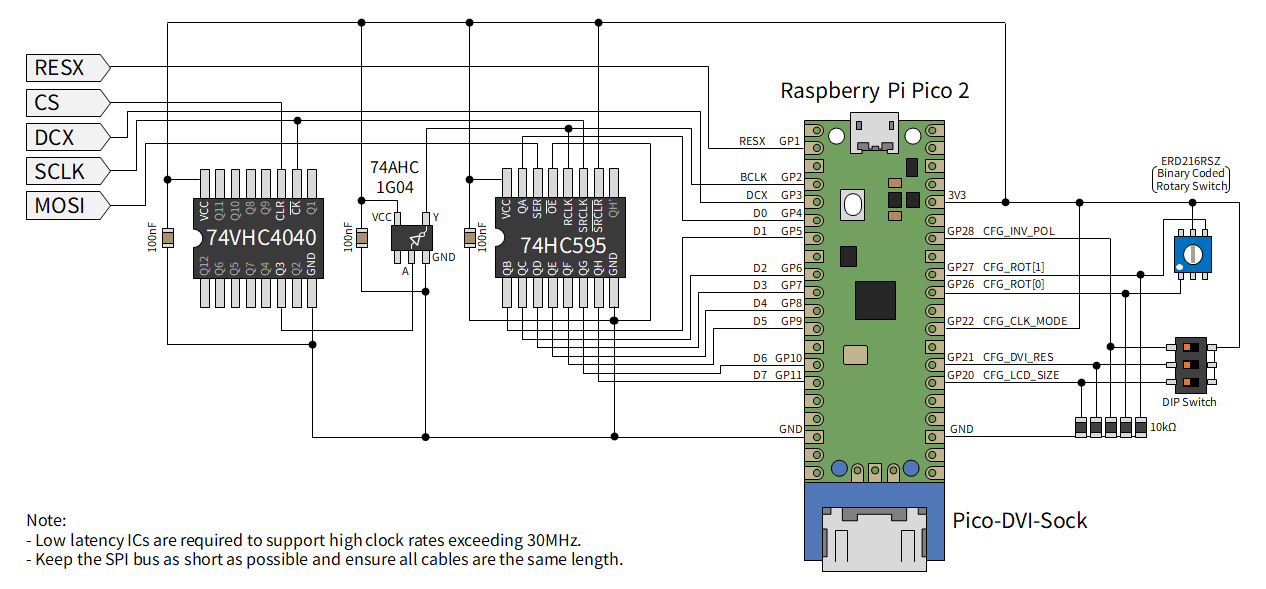
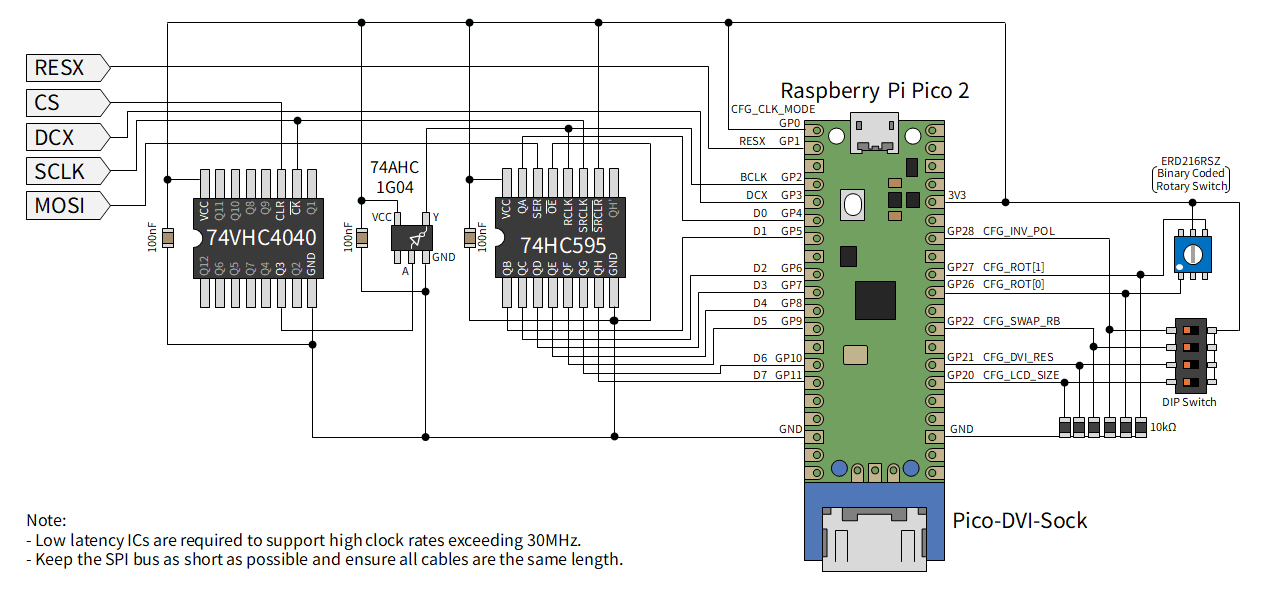
add LcdTapConfig.swapRB and PIN_CFG_SWAP_RB (GPIO 22)
- Add bool swapRB to LcdTapConfig; in updateWriteCache() the MADCTL BGR
  bit is XOR'd with swapRB so the R/B swap can be overridden at boot time
  independently of the LCD command stream.
- Move PIN_CFG_CLK_MODE from GPIO 22 to GPIO 0 in pico2_st7789.
- Add PIN_CFG_SWAP_RB = GPIO 22 to both pico2_st7789 and pico2_3line_spi;
  LOW (default) = no swap, HIGH = swap R and B channels.
- Update README files and schematics accordingly.

diff --git a/lib/src/lcdtap.cpp b/lib/src/lcdtap.cpp
@@ -24,6 +24,7 @@ void getDefaultConfig(ControllerType type, LcdTapConfig* cfg) {
       cfg->dviHeight = 480;
       cfg->scaleMode = ScaleMode::FIT;
       cfg->invertInvPolarity = false;
+      cfg->swapRB = false;
       break;
     case ControllerType::SSD1306:
       cfg->controller = ControllerType::SSD1306;
@@ -34,6 +35,7 @@ void getDefaultConfig(ControllerType type, LcdTapConfig* cfg) {
       cfg->dviHeight = 480;
       cfg->scaleMode = ScaleMode::FIT;
       cfg->invertInvPolarity = false;
+      cfg->swapRB = false;
       break;
   }
 }
@@ -119,8 +121,8 @@ void ControllerBase::processRamwrData(const uint8_t* data, uint32_t numBytes,
   switch (pixelFormat) {
     case PixelFormat::RGB444:
       // byte0: R1[3:0] G1[3:0]  byte1: B1[3:0] R2[3:0]  byte2: G2[3:0] B2[3:0]
-      // 4bit→5bit: x<<1 (MSB-align; LSB zeroed)  4bit→6bit: x<<2 (MSB-align; lower 2 bits zeroed)
-      // Drain leftover bytes (0–2 bytes)
+      // 4bit→5bit: x<<1 (MSB-align; LSB zeroed)  4bit→6bit: x<<2 (MSB-align;
+      // lower 2 bits zeroed) Drain leftover bytes (0–2 bytes)
       while (ramwrBufLen > 0 && i < length) {
         ramwrBuf[ramwrBufLen++] = data[i];
         i += stride;
@@ -227,7 +229,8 @@ void ControllerBase::processRamwrData(const uint8_t* data, uint32_t numBytes,
   }
 }
 
-// Process a data byte stream: RAMWR data is handled in bulk, others byte by byte
+// Process a data byte stream: RAMWR data is handled in bulk, others byte by
+// byte
 void ControllerBase::feedData(const uint8_t* data, uint32_t numBytes,
                               uint32_t stride) {
   if (stride == 0) stride = 1;  // safety guard
@@ -368,7 +371,8 @@ void LcdTap::fillScanline(uint16_t dviLine, uint16_t* dst) const {
       break;
     }
     case 1: {
-      // rot=1: 90° CW  — (lcdRowOut, lcdColOut) → ((physH-1-lcdColOut), lcdRowOut)
+      // rot=1: 90° CW  — (lcdRowOut, lcdColOut) → ((physH-1-lcdColOut),
+      // lcdRowOut)
       for (uint16_t x = 0; x < ctrl->displayW; ++x) {
         uint16_t lcdColOut = static_cast<uint16_t>(hAccum >> 16);
         *d++ = fb[(uint32_t)(physH - 1u - lcdColOut) * physW + lcdRowOut] ^ inv;
@@ -377,7 +381,8 @@ void LcdTap::fillScanline(uint16_t dviLine, uint16_t* dst) const {
       break;
     }
     case 2: {
-      // rot=2: 180° — (lcdRowOut, lcdColOut) → ((physH-1-lcdRowOut), (physW-1-lcdColOut))
+      // rot=2: 180° — (lcdRowOut, lcdColOut) → ((physH-1-lcdRowOut),
+      // (physW-1-lcdColOut))
       const uint16_t* srcRow = fb + (uint32_t)(physH - 1u - lcdRowOut) * physW;
       for (uint16_t x = 0; x < ctrl->displayW; ++x) {
         uint16_t lcdColOut = static_cast<uint16_t>(hAccum >> 16);
@@ -387,7 +392,8 @@ void LcdTap::fillScanline(uint16_t dviLine, uint16_t* dst) const {
       break;
     }
     case 3: {
-      // rot=3: 270° CW — (lcdRowOut, lcdColOut) → (lcdColOut, (physW-1-lcdRowOut))
+      // rot=3: 270° CW — (lcdRowOut, lcdColOut) → (lcdColOut,
+      // (physW-1-lcdRowOut))
       for (uint16_t x = 0; x < ctrl->displayW; ++x) {
         uint16_t lcdColOut = static_cast<uint16_t>(hAccum >> 16);
         *d++ = fb[(uint32_t)lcdColOut * physW + (physW - 1u - lcdRowOut)] ^ inv;

diff --git a/lib/include/lcdtap/lcdtap.hpp b/lib/include/lcdtap/lcdtap.hpp
@@ -43,9 +43,9 @@ enum class PixelFormat : uint8_t {
 // Scaling mode (when LCD resolution differs from DVI active area)
 //=============================================================================
 enum class ScaleMode : uint8_t {
-  STRETCH,       // Stretch to fill the full DVI area (ignores aspect ratio)
-  FIT,           // Letterbox/pillarbox to preserve aspect ratio
-  PIXEL_PERFECT, // Scale by integer factor; black padding around the image
+  STRETCH,        // Stretch to fill the full DVI area (ignores aspect ratio)
+  FIT,            // Letterbox/pillarbox to preserve aspect ratio
+  PIXEL_PERFECT,  // Scale by integer factor; black padding around the image
 };
 
 //=============================================================================
@@ -66,6 +66,7 @@ struct LcdTapConfig {
   ScaleMode scaleMode;
 
   bool invertInvPolarity;  // true: INVON→non-inverted / INVOFF→inverted
+  bool swapRB;             // true: invert cachedBGR (swap R and B channels)
 };
 
 //=============================================================================
@@ -74,7 +75,8 @@ struct LcdTapConfig {
 struct HostInterface {
   // --- Memory management (required) ---
   // Used for framebuffer allocation/deallocation.
-  // Pass a custom allocator if you need to allocate in external memory (e.g. PSRAM).
+  // Pass a custom allocator if you need to allocate in external memory (e.g.
+  // PSRAM).
   void* (*alloc)(size_t size);
   void (*free)(void* ptr);
 
@@ -145,9 +147,9 @@ class LcdTap {
 
   // Force-set the sleep/display-on state.
   // on=true: sets sleeping=false and displayOn=true, making fillScanline()
-  // return non-black pixels. on=false: sets sleeping=true and returns a black screen.
-  // Use this when you want to display a test pattern before the SPI master sends
-  // SLPOUT/DISPON.
+  // return non-black pixels. on=false: sets sleeping=true and returns a black
+  // screen. Use this when you want to display a test pattern before the SPI
+  // master sends SLPOUT/DISPON.
   void setDisplayOn(bool on);
 
  private:

diff --git a/example/pico2_st7789/src/main.cpp b/example/pico2_st7789/src/main.cpp
@@ -235,8 +235,9 @@ int main() {
   //    Do this first, before the system clock changes, while the default
   //    125 MHz clock is running and the GPIO input synchronisers are stable.
   // -------------------------------------------------------------------------
-  for (uint pin : {PIN_CFG_LCD_SIZE, PIN_CFG_DVI_RES, PIN_CFG_CLK_MODE,
-                   PIN_CFG_ROT0, PIN_CFG_ROT1, PIN_CFG_INV_POL}) {
+  for (uint pin :
+       {PIN_CFG_LCD_SIZE, PIN_CFG_DVI_RES, PIN_CFG_CLK_MODE, PIN_CFG_ROT0,
+        PIN_CFG_ROT1, PIN_CFG_INV_POL, PIN_CFG_SWAP_RB}) {
     gpio_init(pin);
     gpio_set_dir(pin, GPIO_IN);
     gpio_pull_down(pin);
@@ -247,6 +248,7 @@ int main() {
   const bool dvi720p = gpio_get(PIN_CFG_DVI_RES);
   const bool fastMode = gpio_get(PIN_CFG_CLK_MODE);
   const bool invPolarity = gpio_get(PIN_CFG_INV_POL);
+  const bool swapRB = gpio_get(PIN_CFG_SWAP_RB);
   const int rot =
       static_cast<int>((gpio_get(PIN_CFG_ROT1) << 1u) | gpio_get(PIN_CFG_ROT0));
 
@@ -310,6 +312,7 @@ int main() {
   cfg.lcdHeight = lcdH;
   cfg.scaleMode = lcdtap::ScaleMode::FIT;
   cfg.invertInvPolarity = invPolarity;
+  cfg.swapRB = swapRB;
 
   // Use effective (colour-buffer) dimensions, not physical DVI dimensions.
   cfg.dviWidth = static_cast<uint16_t>(dviW);

diff --git a/example/pico2_3line_spi/src/main.cpp b/example/pico2_3line_spi/src/main.cpp
@@ -201,7 +201,7 @@ int main() {
   //    125 MHz clock is running and the GPIO input synchronisers are stable.
   // -------------------------------------------------------------------------
   for (uint pin : {PIN_CFG_LCD_SIZE, PIN_CFG_DVI_RES, PIN_CFG_ROT0,
-                   PIN_CFG_ROT1, PIN_CFG_INV_POL}) {
+                   PIN_CFG_ROT1, PIN_CFG_INV_POL, PIN_CFG_SWAP_RB}) {
     gpio_init(pin);
     gpio_set_dir(pin, GPIO_IN);
     gpio_pull_down(pin);
@@ -211,6 +211,7 @@ int main() {
   const bool lcd320 = gpio_get(PIN_CFG_LCD_SIZE);
   const bool dvi720p = gpio_get(PIN_CFG_DVI_RES);
   const bool invPolarity = gpio_get(PIN_CFG_INV_POL);
+  const bool swapRB = gpio_get(PIN_CFG_SWAP_RB);
   const int rot =
       static_cast<int>((gpio_get(PIN_CFG_ROT1) << 1u) | gpio_get(PIN_CFG_ROT0));
 
@@ -274,6 +275,7 @@ int main() {
   cfg.lcdHeight = lcdH;
   cfg.scaleMode = lcdtap::ScaleMode::FIT;
   cfg.invertInvPolarity = invPolarity;
+  cfg.swapRB = swapRB;
 
   // Use effective (colour-buffer) dimensions, not physical DVI dimensions.
   cfg.dviWidth = static_cast<uint16_t>(dviW);

diff --git a/example/pico2_st7789/include/config.h b/example/pico2_st7789/include/config.h
@@ -70,7 +70,7 @@ static constexpr uint PIN_CFG_DVI_RES = 21u;
 
 // LOW=Normal Mode (spi_slave.pio, no external ICs) / HIGH=Fast Mode
 // (par_slave.pio)
-static constexpr uint PIN_CFG_CLK_MODE = 22u;
+static constexpr uint PIN_CFG_CLK_MODE = 0u;
 
 // output rotation bits: GPIO26=rot bit0, GPIO27=rot bit1 (pull-down=0, default
 // rot=0)
@@ -88,6 +88,9 @@ static constexpr uint PIN_LED = 25u;
 // (INVON→non-inverted)
 // =============================================================================
 static constexpr uint PIN_CFG_INV_POL = 28u;
+
+// LOW=no swap (default) / HIGH=swap R and B channels
+static constexpr uint PIN_CFG_SWAP_RB = 22u;
 
 // =============================================================================
 // PIO / DMA resource assignment

diff --git a/example/pico2_3line_spi/include/config.h b/example/pico2_3line_spi/include/config.h
@@ -59,6 +59,9 @@ static constexpr uint PIN_LED = 25u;
 // =============================================================================
 static constexpr uint PIN_CFG_INV_POL = 28u;
 
+// LOW=no swap (default) / HIGH=swap R and B channels
+static constexpr uint PIN_CFG_SWAP_RB = 22u;
+
 // =============================================================================
 // PIO / DMA resource assignment
 // pio0 is reserved for PicoDVI (libdvi uses DVI_DEFAULT_PIO_INST = pio0).

diff --git a/lib/src/st7789_controller.cpp b/lib/src/st7789_controller.cpp
@@ -14,7 +14,7 @@ void St7789Controller::updateWriteCache() {
   bool mv = (madctl >> 5) & 1;
   bool mx = (madctl >> 6) & 1;
   bool my = (madctl >> 7) & 1;
-  cachedBGR = (madctl >> 3) & 1;
+  cachedBGR = ((madctl >> 3) & 1) ^ config.swapRB;
   int32_t W = static_cast<int32_t>(config.lcdWidth);
   int32_t H = static_cast<int32_t>(config.lcdHeight);
   if (!mv) {

diff --git a/example/pico2_st7789/README.md b/example/pico2_st7789/README.md
@@ -26,11 +26,11 @@ cmake .. -DPICO_SDK_PATH=/path/to/pico-sdk \
 
 ## Operating modes
 
-This program supports two input modes selected at startup by **GPIO 22
-(CLK\_MODE)**. Pull GPIO 22 LOW (or leave it unconnected — internal pull-down)
+This program supports two input modes selected at startup by **GPIO 0
+(CLK\_MODE)**. Pull GPIO 0 LOW (or leave it unconnected — internal pull-down)
 for Normal Mode; pull it HIGH for Fast Mode.
 
-### Normal Mode (GPIO 22 = LOW, default)
+### Normal Mode (GPIO 0 = LOW, default)
 
 Direct SPI slave connection — **no external ICs required**. Supports SPI clock up to approximately 40 MHz.
 
@@ -40,6 +40,7 @@ The rotary switch can be substituted with a DIP switch.
 
 | GPIO  | Direction | Function |
 |-------|-----------|----------|
+| 0     | IN        | CFG: CLK\_MODE — LOW = Normal Mode (this mode) |
 | 1     | IN        | RESX — hardware reset, active-low (pull-up on board) |
 | 2     | IN        | SCLK — SPI clock (CPOL=0: idles LOW) |
 | 4     | IN        | MOSI — SPI data, MSB first |
@@ -48,13 +49,13 @@ The rotary switch can be substituted with a DIP switch.
 | 12–19 | OUT       | DVI TMDS output (pico\_sock\_cfg, driven by PicoDVI) |
 | 20    | IN        | CFG: LCD size select |
 | 21    | IN        | CFG: DVI output resolution select |
-| 22    | IN        | CFG: CLK\_MODE — LOW = Normal Mode (this mode) |
+| 22    | IN        | CFG: SWAP\_RB — R/B channel swap |
 | 25    | OUT       | Onboard LED |
 | 26    | IN        | CFG: output rotation bit 0 |
 | 27    | IN        | CFG: output rotation bit 1 |
 | 28    | IN        | CFG: inversion polarity |
 
-### Fast Mode (GPIO 22 = HIGH)
+### Fast Mode (GPIO 0 = HIGH)
 
 Parallel byte interface via external ICs — tested up to 62.5 MHz SPI clock.
 
@@ -64,6 +65,7 @@ The rotary switch can be substituted with a DIP switch.
 
 | GPIO  | Direction | Function |
 |-------|-----------|----------|
+| 0     | IN        | CFG: CLK\_MODE — HIGH = Fast Mode (this mode) |
 | 1     | IN        | RESX — hardware reset, active-low (pull-up on board) |
 | 2     | IN        | BCLK — byte clock = SCLK÷8 (74AHC1G04 output, HIGH when byte complete) |
 | 3     | IN        | DCX — D/C# signal (direct from SPI master) |
@@ -71,7 +73,7 @@ The rotary switch can be substituted with a DIP switch.
 | 12–19 | OUT       | DVI TMDS output (pico\_sock\_cfg, driven by PicoDVI) |
 | 20    | IN        | CFG: LCD size select |
 | 21    | IN        | CFG: DVI output resolution select |
-| 22    | IN        | CFG: CLK\_MODE — HIGH = Fast Mode (this mode) |
+| 22    | IN        | CFG: SWAP\_RB — R/B channel swap |
 | 25    | OUT       | Onboard LED |
 | 26    | IN        | CFG: output rotation bit 0 |
 | 27    | IN        | CFG: output rotation bit 1 |
@@ -84,9 +86,10 @@ All configuration pins are read once at startup with internal pull-downs
 
 | GPIO  | Name          | LOW (default)           | HIGH (alternate)               |
 |-------|---------------|-------------------------|--------------------------------|
+| 0     | CLK\_MODE     | Normal Mode (SPI slave) | Fast Mode (parallel slave)     |
 | 20    | LCD\_SIZE     | 240×320 (default, overridable at build time) | 320×240 (default, overridable at build time) |
 | 21    | DVI\_RES      | 640×480 @ 60 Hz         | 1280×720 @ 30 Hz (reduced)     |
-| 22    | CLK\_MODE     | Normal Mode (SPI slave) | Fast Mode (parallel slave)     |
+| 22    | SWAP\_RB      | no R/B swap (default)   | swap R and B channels          |
 | 26+27 | ROT           | 00 = no rotation        | 01/10/11 = see table below     |
 | 28    | INV\_POL      | INVON → inverted        | INVON → normal (polarity flip) |
 
@@ -105,6 +108,9 @@ The scale mode is fixed to **FIT** (aspect-ratio-preserving letterbox / pillarbo
 
 `INV_POL` controls how the ST7789 INVON/INVOFF commands are interpreted.
 The default (LOW) matches the ST7789 datasheet polarity.
+
+`SWAP_RB` overrides the R/B channel swap regardless of the MADCTL BGR bit.
+Pull HIGH to swap R and B channels; useful when the display panel wiring inverts the colour order.
 
 ## DVI output (PicoDVI / libdvi)
 

diff --git a/example/pico2_3line_spi/README.md b/example/pico2_3line_spi/README.md
@@ -48,6 +48,7 @@ approximately **84 MHz** at the 640×480 system clock (252 MHz).
 | 12–19 | OUT       | DVI TMDS output (pico\_sock\_cfg, driven by PicoDVI) |
 | 20    | IN        | CFG: LCD size select |
 | 21    | IN        | CFG: DVI output resolution select |
+| 22    | IN        | CFG: SWAP\_RB — R/B channel swap |
 | 25    | OUT       | Onboard LED |
 | 26    | IN        | CFG: output rotation bit 0 |
 | 27    | IN        | CFG: output rotation bit 1 |
@@ -62,6 +63,7 @@ All configuration pins are read once at startup with internal pull-downs
 |-------|-----------|-------------------------|--------------------------------|
 | 20    | LCD\_SIZE | 240×320 (default, overridable at build time) | 320×240 (default, overridable at build time) |
 | 21    | DVI\_RES  | 640×480 @ 60 Hz         | 1280×720 @ 30 Hz (reduced)     |
+| 22    | SWAP\_RB  | no R/B swap (default)   | swap R and B channels          |
 | 26+27 | ROT       | 00 = no rotation        | 01/10/11 = see table below     |
 | 28    | INV\_POL  | INVON → inverted        | INVON → normal (polarity flip) |
 
@@ -80,6 +82,9 @@ The scale mode is fixed to **FIT** (aspect-ratio-preserving letterbox / pillarbo
 
 `INV_POL` controls how the INVON/INVOFF commands are interpreted.
 The default (LOW) matches the standard polarity.
+
+`SWAP_RB` overrides the R/B channel swap regardless of the MADCTL BGR bit.
+Pull HIGH to swap R and B channels; useful when the display panel wiring inverts the colour order.
 
 ## DVI output (PicoDVI / libdvi)
 

diff --git a/README.md b/README.md
@@ -57,6 +57,8 @@ struct LcdTapConfig {
 
   bool invertInvPolarity;     // true: INVON → normal, INVOFF → inverted
                               // false (default): INVON → inverted (ST7789 spec)
+  bool swapRB;                // true: swap R and B channels (invert cachedBGR)
+                              // false (default): no swap
 };
 ```
 
@@ -96,6 +98,7 @@ Default values for `ControllerType::ST7789`:
 | `dviHeight`        | 480                  |
 | `scaleMode`        | `FIT`                |
 | `invertInvPolarity`| `false`              |
+| `swapRB`           | `false`              |
 
 ### `HostInterface` — platform callbacks
 
